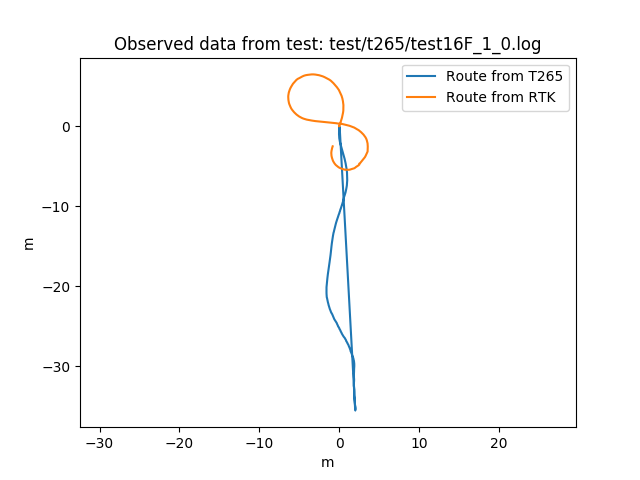
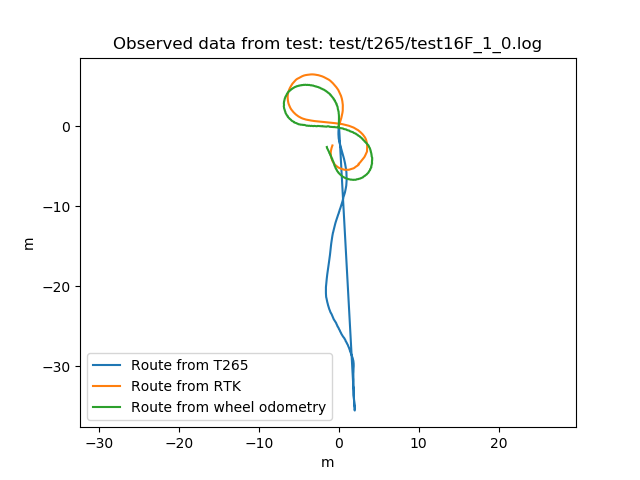
fixat script, även en smooth-version

diff --git a/visuellOdometriMotRTK_23.04/vis.py b/visuellOdometriMotRTK_23.04/vis.py
@@ -2,16 +2,16 @@ import numpy as np
 import matplotlib.pyplot as plt
 from mpl_toolkits.mplot3d import Axes3D
 import matplotlib as mpl
-#import utm
+import utm
 import math
 import glob
 import os
-from sensor_location import *
+from sensor_location_smooth import *
 
 
 
-list_of_files_t265 = sorted(glob.glob('test/t265/inomhus*'))
-list_of_files_cords = sorted(glob.glob('test/cord/inomhus*'))
+list_of_files_t265 = sorted(glob.glob('test/t265/test18F*'))
+list_of_files_cords = sorted(glob.glob('test/cord/test18F*'))
 
 
 
@@ -27,7 +27,7 @@ filename_RTK = max(list_of_files_cords, key=os.path.getctime)
 #filename_head = filelist[2]
 
 for counter, t265_file in enumerate(list_of_files_t265):
-    #cords_file = list_of_files_cords[counter]
+    cords_file = list_of_files_cords[counter]
   
     x_gnss = []
     z_gnss = []
@@ -46,7 +46,7 @@ for counter, t265_file in enumerate(list_of_files_t265):
     v_T265_x = []
     v_T265_z = [] 
              
-    """
+    
     with open(cords_file, 'r') as f:
         f = f.readlines()
        # del f[-1]
@@ -58,7 +58,7 @@ for counter, t265_file in enumerate(list_of_files_t265):
 
             x_gnss.append(u[0])
             z_gnss.append(u[1])
-    """
+    
     with open(t265_file, 'r') as f:
         for line in f:
           # print(line.split(' ')[0])
@@ -74,13 +74,13 @@ for counter, t265_file in enumerate(list_of_files_t265):
             t.append(float(line.split(' ')[1]) - t_first)
             
             #höger hjulhastighet
-            v_x = float(line.split()[22].strip(","))
-            v_y = float(line.split()[23].strip(","))
-            v_z = float(line.split()[24].strip(","))
+            #v_x = float(line.split()[22].strip(","))
+            #v_y = float(line.split()[23].strip(","))
+            #v_z = float(line.split()[24].strip(","))
             
-            v_rx.append(v_x)
-            v_ry.append(v_z)
-            v_r.append(math.sqrt(v_x**2+v_y**2+v_z**2))
+            #v_rx.append(v_x)
+            #v_ry.append(v_z)
+            #v_r.append(math.sqrt(v_x**2+v_y**2+v_z**2))
           
 
             #vänster hjulhastighet
@@ -107,19 +107,22 @@ for counter, t265_file in enumerate(list_of_files_t265):
             z_T265.append(float(z))
 
 
-    #offset_x = x_gnss[0]
-    #offset_z = z_gnss[0]
-    #x_gnss = np.array(x_gnss)
-    #z_gnss = np.array(z_gnss)
+    offset_x = x_gnss[0]
+    offset_z = z_gnss[0]
+    x_gnss = np.array(x_gnss)
+    z_gnss = np.array(z_gnss)
 
-    #x_gnss = x_gnss - offset_x
-    #z_gnss = z_gnss - offset_z
+    x_gnss = x_gnss - offset_x
+    z_gnss = z_gnss - offset_z
+
+    camx, camy = wo_location(tic_l, tic_r, 'Hjuldata from test: ' + t265_file)
 
     x_T265 = np.array(x_T265)
     z_T265 = np.array(z_T265)
     fig = plt.figure()
     plt.plot(x_T265, z_T265, label='Route from T265')
-    #plt.plot(x_gnss, z_gnss, label='Route from RTK')
+    plt.plot(x_gnss, z_gnss, label='Route from RTK')
+    plt.plot(camx, camy, label='Route from wheel odometry')
 
     plt.legend()
     plt.axis('equal')
@@ -133,7 +136,7 @@ for counter, t265_file in enumerate(list_of_files_t265):
     #plottar hjulhastigheten
     fig2 = plt.figure()
     plt.plot(t, v_l, label='v_l')
-    plt.plot(t, v_r, label='v_r')
+    #plt.plot(t, v_r, label='v_r')
     
     plt.legend()
  
@@ -156,7 +159,7 @@ for counter, t265_file in enumerate(list_of_files_t265):
     v_r3D = v_r3D.T
    
     ax.plot(v_l3D[:,0],v_l3D[:,1],v_l3D[:,2], label='v_l')
-    ax.plot(v_r3D[:,0],v_r3D[:,1],v_r3D[:,2], label='v_r')
+    #ax.plot(v_r3D[:,0],v_r3D[:,1],v_r3D[:,2], label='v_r')
 
     v_l3D_2 = np.array([v_T265_x,v_T265_z,t])
     v_l3D_2 = v_l3D_2.T
@@ -206,7 +209,9 @@ for counter, t265_file in enumerate(list_of_files_t265):
     plt.savefig("figs/"+"Pulser "+t265_file.split("/")[2]+".png")
     plt.close(fig3)
 
-    wo_location(tic_l, tic_r, 'Hjuldata from test: ' + t265_file )
+    
+
+    
     
 
 

diff --git a/visuellOdometriMotRTK_23.04/sensor_location.py b/visuellOdometriMotRTK_23.04/sensor_location.py
@@ -9,41 +9,46 @@ def wo_location(c_left, c_right, filename):
     d1 = wdt/2 - cos(ad)*wdt/2
     d2 = sin(ad)*wdt/2
     d = sqrt(d1*d1 + d2*d2)
-    heading = 3.14/2 #north
+    heading = [3.14/2] #north
     location = [0, 0] # x, y
     x = 0
-    y = 0
+    y = -0.9
     lx= [0] 
-    ly = [0]
+    ly = [-0.9]
+    camx = [0]
+    camy = [0]
+
+
     for i in range(len(c_left)):
         if i == 0:
             continue
         
         if c_left[i]-c_left[i-1] != 0 and c_right[i]-c_right[i-1] != 0:
-            x += dpp*cos(heading)
-            y += dpp*sin(heading)
+            x += dpp*cos(heading[-1])
+            y += dpp*sin(heading[-1])
             lx.append(x)
             ly.append(y)
             continue
 
-        if c_left[i]-c_left[i-1] != 0:
-            heading -= ad
-            x += d*cos(heading)
-            y += d*sin(heading)
-            lx.append(x)
-            ly.append(y)
+        elif c_left[i]-c_left[i-1] != 0:
+            heading.append(heading[-1] - ad)
+            
 
-        if c_right[i]-c_right[i-1] != 0:
-            heading += ad
-            x += d*cos(heading)
-            y += d*sin(heading)
-            lx.append(x)
-            ly.append(y)
+        elif c_right[i]-c_right[i-1] != 0:
+            heading.append(heading[-1] + ad)
+        else:
+            continue
+        
+        x += d*cos(heading[-1])
+        y += d*sin(heading[-1])
+        camx.append(x + campos*cos(heading[-1]))
+        camy.append(y + campos*sin(heading[-1]))
+        lx.append(x)
+        ly.append(y)    
         print(heading, x, y)
 
-
-
     plt.plot(lx, ly)
+    plt.plot(camx, camy)
     plt.grid()
     plt.axis('equal')
     plt.title(filename)

diff --git a/visuellOdometriMotRTK_23.04/sensor_location_smooth.py b/visuellOdometriMotRTK_23.04/sensor_location_smooth.py
@@ -1,0 +1,64 @@
+from math import acos, asin, cos, sin, sqrt, atan2
+from matplotlib import pyplot as plt
+import numpy as np
+from array_smooth import array_smoothing
+
+def wo_location(c_left, c_right, filename):
+    dpp = 0.55*3.14/29
+    wdt = 1.08
+    campos = 0.9
+    ad = dpp/wdt
+   
+    heading = [3.14/2] #north
+    location = [0, 0] # x, y
+    x = 0
+    y = -0.9
+    lx= [0] 
+    ly = [-0.9]
+    camx = [0]
+    camy = [0]
+
+    c_left_diff = array_smoothing(c_left)
+    c_right_diff = array_smoothing(c_right)
+
+    c_left_diff_temp = c_left_diff[abs(c_left_diff) < 2]
+    c_right_diff = c_right_diff[abs(c_left_diff) < 2]
+
+    c_left_diff = c_left_diff_temp[abs(c_right_diff) < 2]
+    c_right_diff = c_right_diff[abs(c_right_diff) < 2]
+    
+    for i in range(len(c_left_diff)):
+        if i == 0:
+            continue
+        
+        alfa = atan2(c_left_diff[i]-c_right_diff[i], 2*wdt/dpp)
+        heading.append(heading[-1] - 2*alfa)
+        
+
+        #d1 = wdt/2 - cos(alfa)*wdt/2
+        #d2 = sin(alfa)*wdt/2
+        #d = sqrt(d1*d1 + d2*d2)
+        
+        d = dpp/2 * (c_left_diff[i] + c_right_diff[i])
+
+        x += d*cos(heading[-1])
+        y += d*sin(heading[-1])
+        camx.append(x + campos*cos(heading[-1]))
+        camy.append(y + campos*sin(heading[-1]))
+        lx.append(x)
+        ly.append(y)
+        #print( x, y)
+    
+    #print([lx, ly])
+    #plt.plot(lx, ly)
+    #plt.plot(camx, camy)
+    #plt.grid()
+    #plt.axis('equal')
+    #plt.title(filename)
+    #plt.show()
+    return camx, camy
+
+#c_left = [i for i in range(110)]
+#c_right = [0 for i in range(110)]
+
+#wo_location(c_left, c_right, 'lol')

diff --git a/visuellOdometriMotRTK_23.04/array_smooth.py b/visuellOdometriMotRTK_23.04/array_smooth.py
@@ -1,0 +1,12 @@
+import numpy as np
+
+def array_smoothing(x):
+    for i in range(len(x)):
+        c = 0
+        while i+c < len(x) and x[i+c] == x[i]:
+            c += 1
+        
+        for j in range(c):
+            x[i+j] += 1/c * j
+
+    return np.diff(np.array(x))
